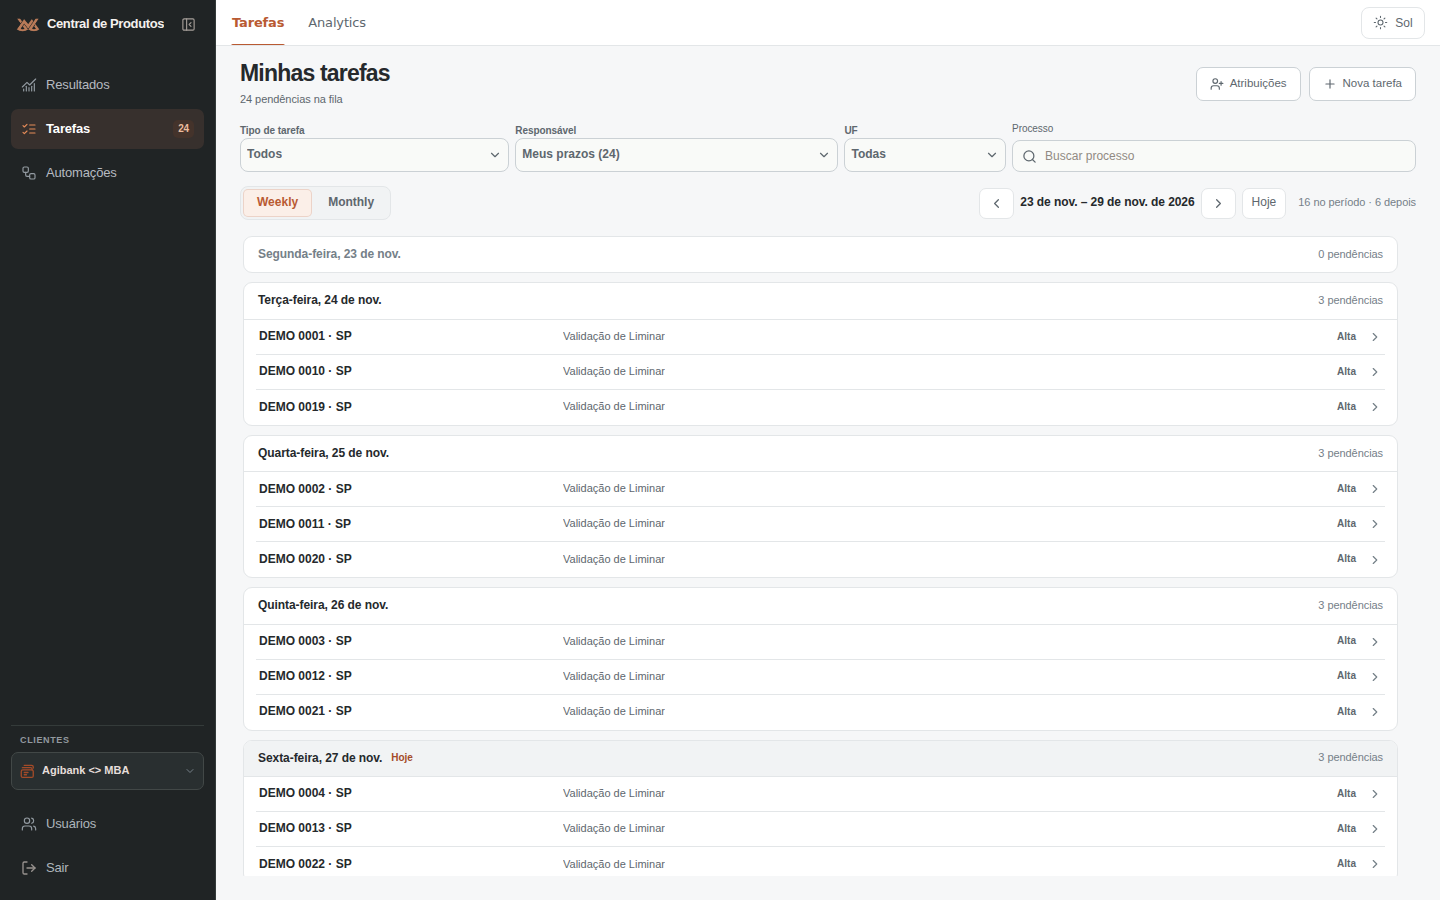
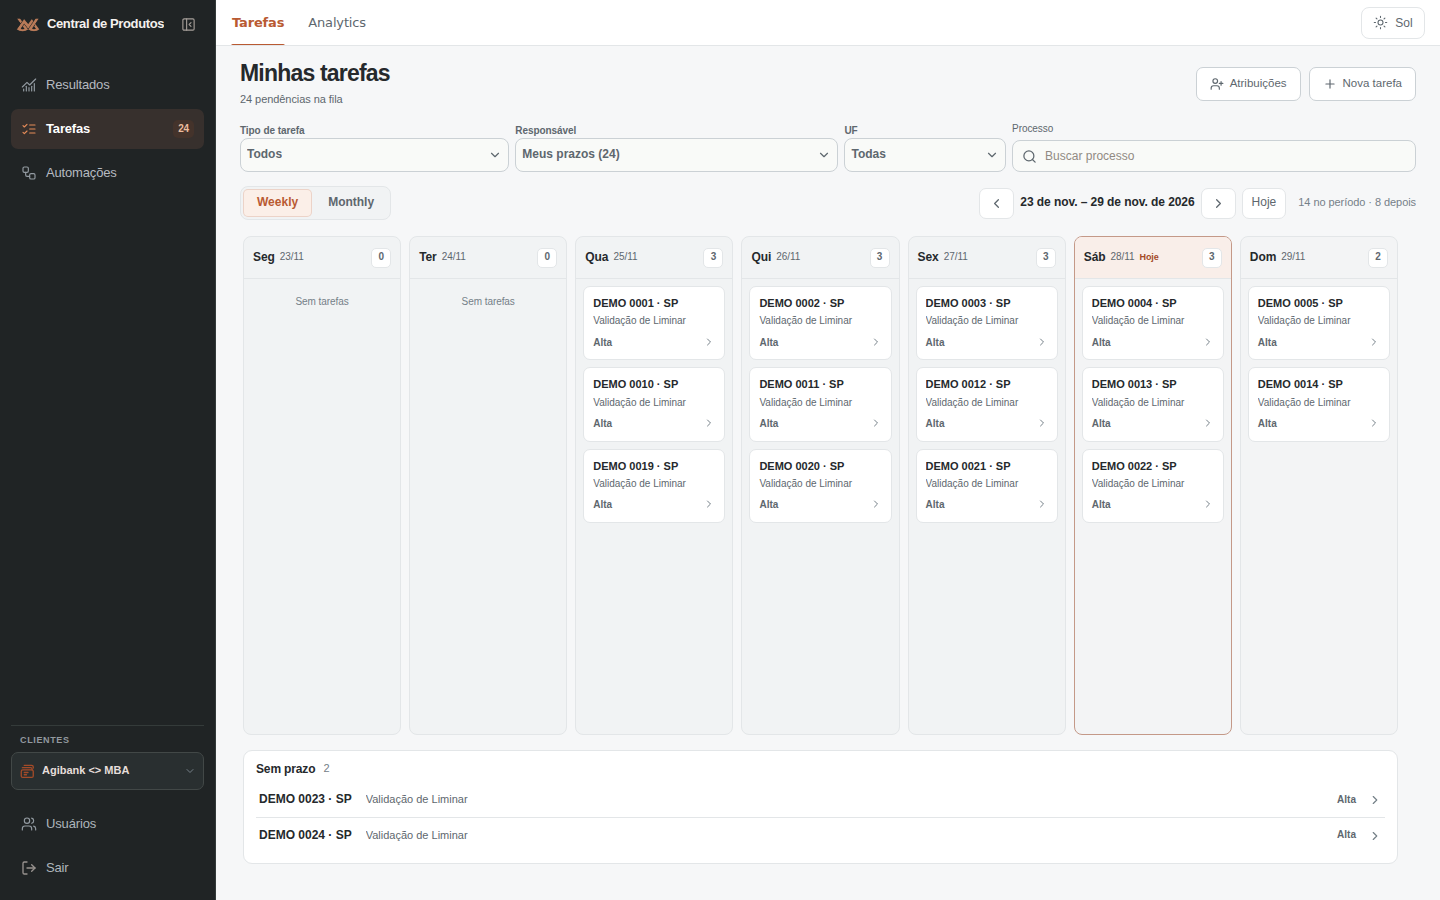
fix(tasks): use daily Kanban columns for weekly view

diff --git a/src/tasks/taskCalendar.css b/src/tasks/taskCalendar.css
@@ -30,22 +30,34 @@
 .tcal-nav button:hover,.tcal-item:hover{background:var(--mba-subtle)}
 .tcal-count{color:var(--mba-muted);font-size:11px;order:0}
 .tcal-scroll{flex:1;min-height:0;overflow:auto;display:flex;flex-direction:column;gap:12px;scrollbar-gutter:stable;padding:0 3px 12px}
-.tcal-agenda{display:flex;flex-direction:column;gap:9px}
-.tcal-agenda-day,.tcal-lane{border:1px solid var(--mba-border);border-radius:9px;background:var(--mba-surface);overflow:hidden}
-.tcal-agenda-heading{display:flex;align-items:center;justify-content:space-between;gap:12px;padding:9px 14px;border-bottom:1px solid var(--mba-border)}
-.tcal-agenda-heading>div{display:flex;align-items:center;gap:9px}
-.tcal-agenda-heading strong{font-size:12px;font-weight:650}
-.tcal-agenda-heading>span{font-size:11px;color:var(--mba-muted);white-space:nowrap;font-variant-numeric:tabular-nums}
-.tcal-agenda-day.empty .tcal-agenda-heading{border:0;color:var(--mba-muted)}
-.tcal-today-label{font-size:10px;color:var(--mba-blue);font-weight:600}
-.tcal-agenda-day.today .tcal-agenda-heading{background:var(--mba-subtle)}
-.tcal-agenda-rows{display:grid;padding:0 12px}
+.tcal-kanban-scroll{flex:1;min-height:410px;overflow-x:auto;overflow-y:hidden;padding-bottom:3px;scrollbar-width:thin}
+.tcal-kanban{display:grid;grid-template-columns:repeat(7,minmax(150px,1fr));gap:8px;min-width:1098px;min-height:100%;height:100%}
+.tcal-kanban-column{display:flex;flex-direction:column;min-width:0;min-height:0;border:1px solid var(--mba-border);border-radius:8px;background:var(--mba-subtle)}
+.tcal-kanban-column.weekend{background:color-mix(in srgb,var(--mba-subtle) 68%,var(--mba-bg))}
+.tcal-kanban-heading{flex:none;display:flex;align-items:center;justify-content:space-between;gap:4px;padding:10px 9px;border-bottom:1px solid var(--mba-border);min-height:42px}
+.tcal-kanban-heading>div{display:flex;align-items:center;gap:5px;min-width:0;flex-wrap:wrap}
+.tcal-kanban-heading strong{font-size:12px;font-weight:650;color:var(--mba-text)}
+.tcal-kanban-date{font-size:10px;color:var(--mba-text-2);font-variant-numeric:tabular-nums}
+.tcal-kanban-count{flex:none;font-size:10px;font-weight:600;font-variant-numeric:tabular-nums;color:var(--mba-text-2);background:var(--mba-surface);border:1px solid var(--mba-border);min-width:20px;height:20px;display:grid;place-items:center;border-radius:5px;padding:0 4px}
+.tcal-today-label{font-size:9px;color:var(--mba-blue);font-weight:600}
+.tcal-kanban-column.today{border-color:color-mix(in srgb,var(--mba-blue) 50%,var(--mba-border))}
+.tcal-kanban-column.today .tcal-kanban-heading{background:var(--mba-blue-soft);border-radius:7px 7px 0 0}
+.tcal-kanban-items{display:flex;flex-direction:column;gap:7px;overflow:auto;min-height:0;flex:1;padding:7px;scrollbar-width:thin}
+.tcal-kanban-empty{display:block;padding:9px 2px;color:var(--mba-muted);font-size:10px;text-align:center}
+.tcal-lane{border:1px solid var(--mba-border);border-radius:9px;background:var(--mba-surface);overflow:hidden}
 .tcal-item{width:100%;min-width:0;display:flex;align-items:center;gap:12px;min-height:35px;padding:6px 3px;border:0;border-bottom:1px solid var(--mba-border);background:transparent;color:var(--mba-text);font:inherit;text-align:left;cursor:pointer}
-.tcal-agenda-rows>.tcal-item:last-of-type{border-bottom:0}
 .tcal-item-main{flex:1;min-width:0;display:flex;align-items:center;gap:14px}
 .tcal-item strong{font-size:12px;font-weight:600;overflow:hidden;text-overflow:ellipsis;white-space:nowrap}
 .tcal-item small{color:var(--mba-text-2);font-size:11px;overflow:hidden;text-overflow:ellipsis;white-space:nowrap}
-.tcal-agenda .tcal-item-main strong{width:min(38%,290px);flex:none}
+.tcal-kanban-items>.tcal-item{flex:none;display:grid;grid-template-columns:minmax(0,1fr) auto;gap:8px 4px;align-items:start;min-height:74px;padding:9px;border:1px solid var(--mba-border);border-radius:7px;background:var(--mba-surface)}
+.tcal-kanban-items>.tcal-item:hover{border-color:var(--mba-border-strong);background:var(--mba-surface)}
+.tcal-kanban-items .tcal-item-main{grid-column:1/-1;display:flex;flex-direction:column;align-items:flex-start;gap:4px;width:100%}
+.tcal-kanban-items .tcal-item-main strong{width:100%;font-size:11px;white-space:normal;overflow-wrap:anywhere;line-height:1.3}
+.tcal-kanban-items .tcal-item-main small{width:100%;font-size:10px;white-space:normal;line-height:1.35}
+.tcal-kanban-items .tcal-item-arrow{justify-self:end;width:12px;height:12px}
+.tcal-kanban-items .tcal-item .tcal-priority{font-size:10px}
+.tcal-kanban-items .tcal-item.selected:focus-visible{border-color:var(--mba-blue);outline-offset:1px}
+
 .tcal-priority{font-size:10px;color:var(--mba-muted);font-weight:500}
 .tcal-item.high .tcal-priority{color:var(--mba-text-2);font-weight:600}
 .tcal-item-arrow{color:var(--mba-muted);flex:none}
@@ -77,4 +89,4 @@
 #tarefas .task-card-shell>.execution-card{border:0!important;border-radius:0!important}
 .task-card-shell .tasks-renderer-body{min-height:0;overflow:auto}
 @media(max-width:1000px){#tarefas .task-agenda-filters .queue-station-filters{grid-template-columns:repeat(2,minmax(0,1fr))!important}.tcal-nav{margin-left:0}}
-@media(max-width:700px){#tarefas .task-agenda-filters .queue-station-filters{gap:7px}.task-agenda-header h1{font-size:19px}.tcal-scroll{overflow:visible}.tcal-monthly .tcal-scroll{overflow:auto}.tcal-monthly .tcal-grid{min-width:560px}.tcal-item-main{flex-direction:column;align-items:flex-start;gap:3px}.tcal-agenda .tcal-item-main strong{width:100%}.task-card-layer{padding:8px}.task-card-layer>.task-card-shell{height:min(86dvh,680px);max-height:calc(100dvh - 16px)}}
+@media(max-width:700px){#tarefas .task-agenda-filters .queue-station-filters{gap:7px}.task-agenda-header h1{font-size:19px}.tcal-scroll{overflow:visible}.tcal-monthly .tcal-scroll{overflow:auto}.tcal-monthly .tcal-grid{min-width:560px}.tcal-item-main{flex-direction:column;align-items:flex-start;gap:3px}.tcal-weekly .tcal-scroll{overflow:auto}.tcal-kanban-scroll{flex:none;height:460px}.task-card-layer{padding:8px}.task-card-layer>.task-card-shell{height:min(86dvh,680px);max-height:calc(100dvh - 16px)}}

diff --git a/src/tasks/TaskCalendar.tsx b/src/tasks/TaskCalendar.tsx
@@ -129,17 +129,23 @@ export function TaskCalendar({ items, mode, anchor, activeKey, onModeChange, onA
     </header>
 
     <div className="tcal-scroll">
-      {mode === 'weekly' ? <div className="tcal-agenda" aria-label={range.label}>
-        {days.map(date => {
-          const key = dayKey(date);
-          const rows = buckets.byDay.get(key) || [];
-          const today = key === todayKey;
-          const label = date.toLocaleDateString('pt-BR', { weekday: 'long', day: 'numeric', month: 'short' });
-          return <section key={key} className={`tcal-agenda-day ${today ? 'today' : ''} ${rows.length ? '' : 'empty'}`}>
-            <header className="tcal-agenda-heading"><div><strong>{label.charAt(0).toUpperCase() + label.slice(1)}</strong>{today ? <span className="tcal-today-label">Hoje</span> : null}</div><span>{rows.length} {rows.length === 1 ? 'pendência' : 'pendências'}</span></header>
-            {rows.length ? <div className="tcal-agenda-rows"><DayItems id={key} items={rows} limit={limit} activeKey={activeKey} expanded={expanded.has(key)} onToggle={toggle} onOpen={onOpen}/></div> : null}
-          </section>;
-        })}
+      {mode === 'weekly' ? <div className="tcal-kanban-scroll">
+        <div className="tcal-kanban" aria-label={range.label}>
+          {days.map((date, index) => {
+            const key = dayKey(date);
+            const rows = buckets.byDay.get(key) || [];
+            const today = key === todayKey;
+            return <section key={key} className={`tcal-kanban-column ${today ? 'today' : ''} ${index >= 5 ? 'weekend' : ''}`} aria-label={date.toLocaleDateString('pt-BR', { weekday: 'long', day: 'numeric', month: 'long' })}>
+              <header className="tcal-kanban-heading">
+                <div><strong>{WEEKDAYS[index]}</strong><span className="tcal-kanban-date">{date.toLocaleDateString('pt-BR', { day: '2-digit', month: '2-digit' })}</span>{today ? <span className="tcal-today-label">Hoje</span> : null}</div>
+                <span className="tcal-kanban-count" aria-label={`${rows.length} pendências`}>{rows.length}</span>
+              </header>
+              <div className="tcal-kanban-items">
+                {rows.length ? <DayItems id={key} items={rows} limit={limit} activeKey={activeKey} expanded={expanded.has(key)} onToggle={toggle} onOpen={onOpen}/> : <span className="tcal-kanban-empty">Sem tarefas</span>}
+              </div>
+            </section>;
+          })}
+        </div>
       </div> : <div className="tcal-grid" role="grid" aria-label={range.label}>
         {WEEKDAYS.map(name => <div key={name} className="tcal-weekday" role="columnheader">{name}</div>)}
         {days.map(date => {
